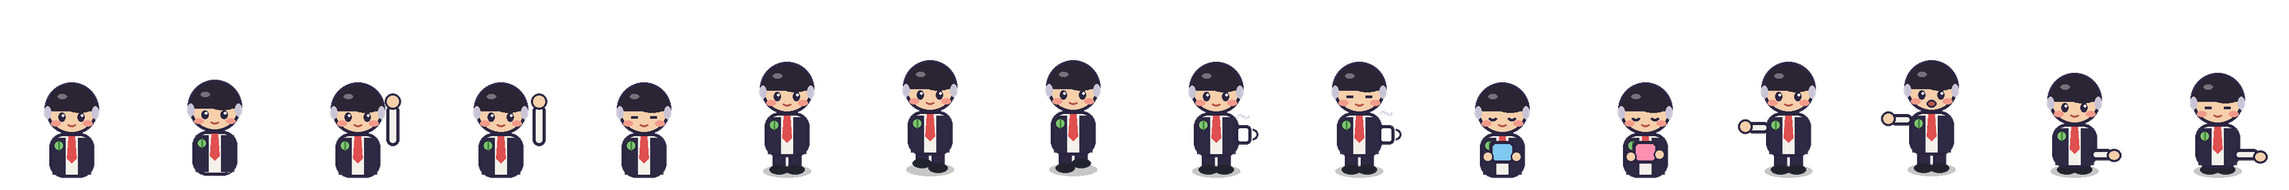
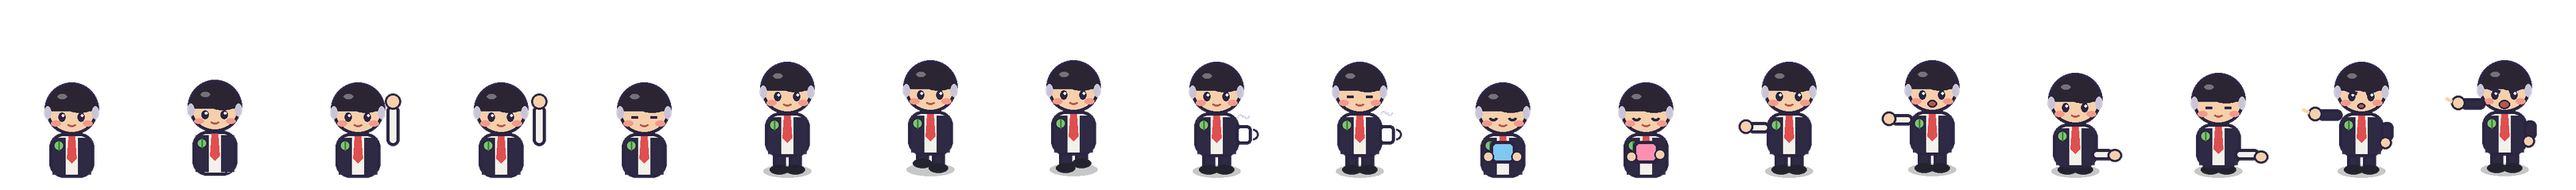
瓜老板 lectures the floor when too many people are slacking
When three or more residents (or most of the office) are slacking, at most
every 3 minutes, the boss walks out of the meeting room into the aisle and
gives a corporate-speak speech in a red, shaking bubble. Slackers scramble
back to their desks and fake typing until shortly after he leaves, and one of
them mutters "then give me some work". Counted in the daily report.

Changed region(s): [[0.0, 0.3208, 1.0, 0.9333]]

diff --git a/web/src/scene.ts b/web/src/scene.ts
@@ -1,5 +1,5 @@
 import Phaser from 'phaser';
-import type { Agent, Layout, Pending, State, XY } from './types';
+import type { Agent, Layout, Pending, Scold, State, XY } from './types';
 import { net } from './net';
 import { askOf, lineOf, rawOf } from './copy';
 
@@ -23,7 +23,7 @@ const BOSS_LINES = [
   '这个需求，我们拉通对齐一下', '今天的抓手是什么？', 'Q4 要打出组合拳', '大家辛苦了，再冲一下', '把颗粒度再细一点',
 ];
 
-type Variant = 'say' | 'term' | 'ask';
+type Variant = 'say' | 'term' | 'ask' | 'angry';
 
 // ---------------------------------------------------------------- speech bubble
 class Bubble extends Phaser.GameObjects.Container {
@@ -50,7 +50,7 @@ class Bubble extends Phaser.GameObjects.Container {
 
     const chip = s.add.text(0, 0, name, { fontFamily: FONT, fontSize: '21px', fontStyle: 'bold', color: chipFg, backgroundColor: chipBg, padding: { x: 11, y: 5 } });
     const msg = s.add.text(0, 0, text, {
-      fontFamily: FONT, fontSize: '25px', fontStyle: variant === 'ask' ? 'bold' : 'normal',
+      fontFamily: FONT, fontSize: '25px', fontStyle: variant === 'ask' || variant === 'angry' ? 'bold' : 'normal',
       color: term ? '#F5F2FF' : '#2A2440', wordWrap: { width: 520, useAdvancedWrap: true },
     });
     const row1H = Math.max(chip.height, msg.height);
@@ -100,6 +100,7 @@ class Bubble extends Phaser.GameObjects.Container {
     g.fillTriangle(-13, -tail - 1, 13, -tail - 1, 0, 0);
     if (term) g.lineStyle(4, 0x6fe39a, 1).strokeRoundedRect(-w / 2, top, w, h, 22);
     if (variant === 'ask') g.lineStyle(5, 0xffd27a, 1).strokeRoundedRect(-w / 2, top, w, h, 22);
+    if (variant === 'angry') g.lineStyle(5, 0xff6b5e, 1).strokeRoundedRect(-w / 2, top, w, h, 22);
     this.add(g);
 
     let x = -w / 2 + pad;
@@ -187,6 +188,7 @@ class Worker {
     if (a.status === 'leaving') want = 'exit';
     else if (a.status === 'slacking') {
       if (a.activity === 'chat' || a.activity === 'cat') want = a.activity;
+      else if (a.activity === 'fake') want = this.seat() ? 'seat' : 'pantry';
       else want = a.activity === 'phone' && this.seat() ? 'seat' : 'pantry';
     } else if (!this.seat()) want = 'pantry';
     else if (a.status === 'idle') want = this.place === 'pantry' || performance.now() - this.idleSince > 5000 ? 'pantry' : 'seat';
@@ -282,21 +284,21 @@ class Worker {
       const s = this.seat();
       if (!s) return;
       this.sprite.setPosition(s.anchor[0], s.anchor[1]).setDepth(s.row === 'row1' ? 10 : 30);
-      if (a.status === 'slacking') {
+      if (a.status === 'slacking' && a.activity !== 'fake') {
         this.glow.setVisible(false);
         this.sprite.play(`${k}-phone`, true);
         return;
       }
-      const color = GLOW[a.status === 'waiting' ? 'wait' : a.kind] ?? GLOW.other;
+      const color = a.activity === 'fake' ? GLOW.other : GLOW[a.status === 'waiting' ? 'wait' : a.kind] ?? GLOW.other;
       this.glow.setPosition(s.anchor[0], s.anchor[1] - 80).setDepth(this.sprite.depth - 0.5).setFillStyle(color, 0.22).setVisible(true);
       if (a.status === 'waiting') this.sprite.play(`${k}-raise`, true);
-      else if (a.status === 'working' && a.kind !== 'fail') this.sprite.play(`${k}-type`, true);
+      else if ((a.status === 'working' && a.kind !== 'fail') || a.activity === 'fake') this.sprite.play(`${k}-type`, true);
       else this.sprite.play(`${k}-think`, true);
     } else {
       this.glow.setVisible(false);
       const [x, y] = this.scene.project(this.pos.x, this.pos.y);
       this.sprite.setPosition(x, y).setDepth(this.scene.depthFor(this.pos.x, this.pos.y));
-      const anim = this.place === 'chat' ? 'talk' : this.place === 'cat' ? 'pet' : a.status === 'waiting' ? 'stand' : 'mug';
+      const anim = this.place === 'chat' ? 'talk' : this.place === 'cat' ? 'pet' : a.status === 'waiting' || a.activity === 'fake' ? 'stand' : 'mug';
       this.sprite.play(`${k}-${anim}`, true);
     }
   }
@@ -334,6 +336,14 @@ export class OfficeScene extends Phaser.Scene {
   bossBubble!: Bubble;
   boss!: Phaser.GameObjects.Sprite;
   bossLine = BOSS_LINES[0];
+  // the boss walks out to the floor for a speech and back to the meeting room after
+  bossPos: XY = [0, 0];
+  bossPath: XY[] = [];
+  bossGoal: 'room' | 'floor' = 'room';
+  bossLastStep = 0;
+  bossLastSx = 0;
+  scold: Scold | null = null;
+  clockSkew = 0; // server time - local time
   wallTex!: Phaser.Textures.CanvasTexture;
 
   constructor() {
@@ -427,6 +437,7 @@ export class OfficeScene extends Phaser.Scene {
       this.anims.create({ key: `${k}-phone`, frames: fr(['sit_phone', 'sit_phone', 'sit_phone', 'sit_phone2']), frameRate: 2, repeat: -1 });
       this.anims.create({ key: `${k}-talk`, frames: fr(['talk1', 'talk2', 'talk1', 'talk2', 'talk1', 'talk1']), frameRate: 4, repeat: -1 });
       this.anims.create({ key: `${k}-pet`, frames: fr(['pet1', 'pet2']), frameRate: 2, repeat: -1 });
+      this.anims.create({ key: `${k}-scold`, frames: fr(['scold1', 'scold2', 'scold1', 'scold2', 'scold2', 'scold1']), frameRate: 4, repeat: -1 });
     }
 
     this.wallTex = this.textures.createCanvas('walltext', this.layout.size[0], this.layout.size[1])!;
@@ -435,7 +446,8 @@ export class OfficeScene extends Phaser.Scene {
     this.time.addEvent({ delay: 20000, loop: true, callback: () => this.drawWall() });
 
     // 瓜老板 = you. He lives in the meeting room and nags when something needs your approval.
-    const [bx, by] = this.project(...this.layout.spots.boss);
+    this.bossPos = [...this.layout.spots.boss];
+    const [bx, by] = this.project(...this.bossPos);
     this.boss = this.add.sprite(bx, by, 'boss', this.frame('stand')).setOrigin(0.5, 0.9).setDepth(60);
     this.boss.play('boss-stand');
     this.bossBubble = new Bubble(this);
@@ -480,6 +492,9 @@ export class OfficeScene extends Phaser.Scene {
   }
 
   applyState(s: State) {
+    this.scold = s.scold;
+    this.clockSkew = s.now - Date.now();
+    this.walkBoss(s.scold ? 'floor' : 'room');
     this.pendingByAgent = new Map(s.pending.map((p) => [p.agentId, p]));
     const first = !this.seenFirstState;
     const alive = new Set<string>();
@@ -499,12 +514,58 @@ export class OfficeScene extends Phaser.Scene {
     this.seenFirstState = true;
   }
 
+  // meeting room -> through the glass door -> the aisle between the two rows of desks
+  private walkBoss(goal: 'room' | 'floor') {
+    if (goal === this.bossGoal) return;
+    this.bossGoal = goal;
+    const route: XY[] = [[9.3, 3.5], [9.3, 3.0], [8.6, 3.0], [8.6, 3.75], [5.2, 3.75]];
+    const [rx, ry] = this.layout.spots.boss;
+    this.bossPath = goal === 'floor' ? route : [...route.slice(0, -1).reverse(), [rx, 3.5], [rx, ry]];
+    this.bossLastStep = performance.now();
+    this.boss.play('boss-walk', true);
+  }
+
+  private stepBoss() {
+    const now = performance.now();
+    let budget = (Math.min(250, now - this.bossLastStep) / 1000) * SPEED;
+    this.bossLastStep = now;
+    while (budget > 0 && this.bossPath.length) {
+      const [tx, ty] = this.bossPath[0];
+      const d = Math.hypot(tx - this.bossPos[0], ty - this.bossPos[1]);
+      if (d <= budget) {
+        this.bossPos = [tx, ty];
+        budget -= d;
+        this.bossPath.shift();
+      } else {
+        this.bossPos = [this.bossPos[0] + ((tx - this.bossPos[0]) / d) * budget, this.bossPos[1] + ((ty - this.bossPos[1]) / d) * budget];
+        budget = 0;
+      }
+    }
+    const [x, y] = this.project(...this.bossPos);
+    if (Math.abs(x - this.bossLastSx) > 0.5) this.boss.setFlipX(x < this.bossLastSx);
+    this.bossLastSx = x;
+    this.boss.setPosition(x, y).setDepth(this.depthFor(...this.bossPos));
+    if (!this.bossPath.length) {
+      this.boss.setFlipX(false);
+      this.boss.play(this.bossGoal === 'floor' ? 'boss-scold' : 'boss-stand', true);
+    }
+  }
+
   update(time: number) {
     for (const w of this.workers.values()) w.tick(time, this.pendingByAgent.get(w.agent.id));
+    if (this.bossPath.length) this.stepBoss();
     const holding = [...this.pendingByAgent.values()].filter((p) => p.holding).length;
-    const line = holding ? `有 ${holding} 个审批等你，点「同意」就行` : this.bossLine;
-    this.bossBubble.setPosition(this.boss.x, this.boss.y - 150 - 4 * Math.sin(time / 500));
-    this.bossBubble.show('瓜老板（你）', 'boss', line, 'say');
+    let line = holding ? `有 ${holding} 个审批等你，点「同意」就行` : this.bossLine;
+    let variant: Variant = 'say';
+    let shake = 0;
+    if (this.scold) {
+      const half = (this.scold.until - this.scold.startedAt) / 2;
+      line = this.scold.lines[Date.now() + this.clockSkew - this.scold.startedAt < half ? 0 : 1] || this.scold.lines[0];
+      variant = 'angry';
+      shake = this.bossPath.length ? 0 : 3 * Math.sin(time / 25);
+    }
+    this.bossBubble.setPosition(this.boss.x + shake, this.boss.y - 150 - 4 * Math.sin(time / 500));
+    this.bossBubble.show('瓜老板（你）', 'boss', line, variant);
     this.unstack();
   }
 

diff --git a/web/src/copy.ts b/web/src/copy.ts
@@ -30,7 +30,7 @@ export function since(ts: number, now = Date.now()): string {
   return `${Math.floor(m / 60)}h${m % 60 ? ` ${m % 60}m` : ''}`;
 }
 
-export const ACTIVITY: Record<string, string> = { phone: '刷手机', chat: '聊八卦', cat: '撸猫', coffee: '喝咖啡' };
+export const ACTIVITY: Record<string, string> = { phone: '刷手机', chat: '聊八卦', cat: '撸猫', coffee: '喝咖啡', fake: '假装很忙' };
 
 export function dailyReport(stats: Stats, headcount: number): string {
   const align = Math.max(1, stats.prompts);
@@ -39,10 +39,12 @@ export function dailyReport(stats: Stats, headcount: number): string {
     `过审批 ${stats.approvals} 次，赋能 ${headcount} 位同学` +
     (stats.failures ? `，复盘翻车 ${stats.failures} 次` : '') +
     (slack ? `，团队带薪摸鱼 ${slack} 分钟` : '') +
+    (stats.scoldings ? `，开展作风整顿 ${stats.scoldings} 次` : '') +
     '。明日继续抓手落地，打出组合拳。';
 }
 
-export function caption(working: number, slacking = 0): string {
+export function caption(working: number, slacking = 0, scolding = false): string {
+  if (scolding) return '瓜老板正在工区训话，大家假装很忙';
   const now = new Date();
   const hh = String(now.getHours()).padStart(2, '0');
   const mm = String(now.getMinutes()).padStart(2, '0');

diff --git a/web/src/types.ts b/web/src/types.ts
@@ -1,6 +1,6 @@
 // idle: the session is done and waiting for you; slacking: a resident with no session at all
 export type Status = 'thinking' | 'working' | 'waiting' | 'idle' | 'slacking' | 'leaving' | 'gone';
-export type Activity = 'phone' | 'chat' | 'cat' | 'coffee';
+export type Activity = 'phone' | 'chat' | 'cat' | 'coffee' | 'fake'; // fake: pretending to work while the boss is out
 
 export interface Agent {
   id: string;
@@ -45,6 +45,7 @@ export interface Stats {
   prompts: number;
   failures: number;
   slack: number; // ms the residents spent slacking
+  scoldings: number;
   since: number;
 }
 
@@ -61,7 +62,15 @@ export interface State {
   stats: Stats;
   feed: FeedItem[];
   approvals: { enabled: boolean; active: boolean };
+  scold: Scold | null; // 瓜老板 is out on the floor giving a speech
   now: number;
+}
+
+export interface Scold {
+  id: string;
+  startedAt: number;
+  until: number;
+  lines: string[];
 }
 
 export type XY = [number, number];

diff --git a/web/src/main.ts b/web/src/main.ts
@@ -34,7 +34,7 @@ function tick() {
   const t = taxiCountdown();
   $('taxi').textContent = t ? `距打车报销 ${t}` : '打车可报销';
   const slacking = live.filter((a) => a.status === 'slacking').length;
-  $('caption').textContent = SHOW_CAPTION ? caption(working, slacking) : '';
+  $('caption').textContent = SHOW_CAPTION ? caption(working, slacking, Boolean(s?.scold)) : '';
 }
 net.on(tick);
 setInterval(tick, 10000);

diff --git a/tools/render_assets.py b/tools/render_assets.py
@@ -196,7 +196,11 @@ def chibi(r, who, ax, ay, seated, frame, blink=False, key=None, raise_=None, mug
         r.ell(ax - 6, hy + 4, 2.2, 2.8, INK); r.ell(ax + 6, hy + 4, 2.2, 2.8, INK)
         r.ell(ax - 5.4, hy + 3, 0.8, 0.8, '#ffffff'); r.ell(ax + 6.6, hy + 3, 0.8, 0.8, '#ffffff')
     r.ell(ax - 10, hy + 8, 3, 1.8, '#f29a8a'); r.ell(ax + 10, hy + 8, 3, 1.8, '#f29a8a')
-    if act == 'talk' and frame:
+    if act == 'scold':  # frowning, mouth open mid-rant
+        r.line([(ax - 10, hy - 0.5), (ax - 3, hy + 2)], INK, 2.4)
+        r.line([(ax + 10, hy - 0.5), (ax + 3, hy + 2)], INK, 2.4)
+        r.ell(ax, hy + 10, 3.5 if frame else 2.5, 2.8 if frame else 1.8, '#b5574a', outline=INK, w=1)
+    elif act == 'talk' and frame:
         r.ell(ax, hy + 9.5, 3, 2.4, '#b5574a', outline=INK, w=1)
     else:
         r.arc(ax, hy + 8, 3, 2, 20, 160, '#b5574a', 1.5)
@@ -227,6 +231,14 @@ def chibi(r, who, ax, ay, seated, frame, blink=False, key=None, raise_=None, mug
         hy2 = by0 + (2 if frame else 6)
         r.rr(ax - 26, hy2, ax - 12, hy2 + 7, 3.5, p['shirt'])
         r.ell(ax - 27, hy2 + 3, 4.5, 4.5, skin, outline=INK, w=1.5)
+    if act == 'scold':  # one hand on the hip, the other pointing at the desks
+        sleeve = '#2e2a44' if who == 'boss' else p['shirt']
+        r.rr(ax + 12, by0 + 6, ax + 20, by0 + 18, 3.5, sleeve)
+        r.ell(ax + 15, by0 + 19, 4, 4, skin, outline=INK, w=1.5)
+        py = by0 - (8 if frame else 2)
+        r.rr(ax - 28, py, ax - 12, py + 7, 3.5, sleeve)
+        r.ell(ax - 29, py + 3, 4.5, 4.5, skin, outline=INK, w=1.5)
+        r.line([(ax - 33, py + 2), (ax - 37, py)], skin, 2.5)
     if act == 'pet':  # reaching down to the cat
         px = ax + 24 + (2 if frame else 0)
         r.rr(ax + 10, by1 - 8, px, by1 - 1, 3.5, p['shirt'])
@@ -495,6 +507,9 @@ FRAMES = [
     ('talk2',      False, 1, False, False, False, 0, -1, 'talk'),
     ('pet1',       False, 0, False, False, False, 0, 0, 'pet'),
     ('pet2',       False, 1, True,  False, False, 0, 0, 'pet'),
+    # 瓜老板训话
+    ('scold1',     False, 0, False, False, False, 0, 0, 'scold'),
+    ('scold2',     False, 1, False, False, False, 0, -1, 'scold'),
 ]
 
 

diff --git a/README.md b/README.md
@@ -31,6 +31,7 @@ And it's a lot of fun to watch.
 
 - **One session, one employee.** Subagents join as interns, follow their lead, and leave when their task is done.
 - **The office is never empty.** A few residents (`--staff 3` by default, up to 5) hang around even with nothing running: scrolling their phones, gossiping in the pantry, petting the office cat. A new session is picked up by whoever is slacking, who puts the phone down and walks to their desk. When there are more sessions than residents, colleagues and numbered contractors walk in for the job and leave when it's done.
+- **The boss notices.** When too many people are slacking, 瓜老板 walks out of the meeting room and gives a corporate-speak lecture (at most every 3 minutes). Everyone scrambles back to their desk and fakes it until he's gone, and somebody mutters "then give me some work".
 - **Real behaviour, not a screensaver.** Driven by Claude Code hooks: employees walk in on `SessionStart`, work on `PreToolUse`, raise a hand on `PermissionRequest`, head to the pantry after `Stop`, and clock out on `SessionEnd`.
 - **Monitor glow by tool.** Green for editing, blue for reading and searching, orange for shell commands, red when waiting on you.
 - **Approve from the office.** Opt-in. Only when the page is open does the bridge hold a permission request for you (up to ~55 s); otherwise Claude falls back to the normal terminal prompt instantly.

diff --git a/README.zh-CN.md b/README.zh-CN.md
@@ -30,6 +30,7 @@
 
 - **一个会话一个员工**：子 Agent 以实习生身份入职，跟着组长干活，交活就下班。
 - **办公室从不空着**：没活的时候也有几位常驻员工在（默认 `--staff 3`，最多 5 位），刷手机、在茶水间聊八卦、去逗行政猫。新会话来了，正在摸鱼的同事放下手机回工位接活；会话比常驻员工多时，其他同事和编号的外包会进门帮忙，干完就走。
+- **老板会训话**：摸鱼的人一多，瓜老板就走出会议室，在工区来一段大厂黑话训话（最多每 3 分钟一次）。大家赶紧回工位假装很忙，等老板走了，总有人嘀咕一句「那倒是给我派活啊」。
 - **行为是真实的**：由 Claude Code hooks 驱动。`SessionStart` 推门入职，`PreToolUse` 开始干活，`PermissionRequest` 举手审批，`Stop` 之后去茶水间，`SessionEnd` 下班打卡。
 - **显示器光晕按工具变色**：写代码绿、读和搜蓝、跑命令橙、等你审批红。
 - **在工区里审批**：可选开启。只有工区页面开着时，才会挂起权限请求等你点按钮（最长约 55 秒）；否则立刻走终端里原本的确认流程，不会让 Claude 干等。
